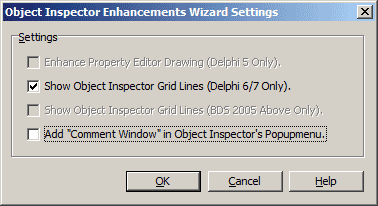
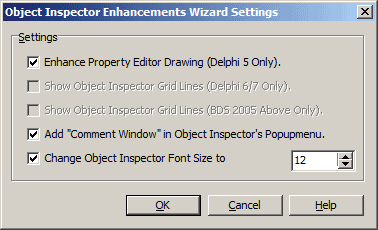
+ [Object Inspector Enhancement] Add Change Font Size Feature.

Changed region(s): [[0.0291, 0.233, 0.9894, 0.9612], [0.0, 0.0, 0.9894, 0.1165], [0.0291, 0.1456, 0.9894, 0.2039]]

diff --git a/Help/CnWizards_ENU/ideenhance/objinspector.htm b/Help/CnWizards_ENU/ideenhance/objinspector.htm
@@ -22,7 +22,6 @@
 <p class="text">Object Inspector Enhancements Wizard provides a series of extended functionalities for the Object Inspector. Its configuration interface is shown in the figure below:</p>
 <p class="text" align="center">
 <img src="objinspectorconf.png"></p>
-
 <ul>
   <li>
     <p class="text"><b>Enhance Property Editor Drawing</b>: The feature adds bold display for non-default property values in the Object Inspector, similar to that in Delphi 7, and currently supports Delphi 5 and C++Builder 5. As shown in the figure below, after enabling this expert, in the Object Inspector of Delphi 5, non-default property values are displayed in bold, while component class properties are shown in brown.</p>
@@ -69,8 +68,11 @@
   		</li>
 	  </ul>
   </li>
+  <p class="text">&nbsp;</p>
+  <li>
+    <p class="text"><b>Change Object Inspector Font Size</b>: If you think the font size of Object Inspector is too small, you can change its font size here.</p>
+  </li>
 </ul>
-
 <p class="text">&nbsp;</p>
 <p class="title" align="left">Links<p class="text" align="left">
 <p class="text" align="left"> <a href="formdesigner.htm">Form Designer Enhancements</a>

diff --git a/Help/CnWizards_CHT/other/credits.htm b/Help/CnWizards_CHT/other/credits.htm
@@ -1134,7 +1134,8 @@
   fb4819, For Me, 球球, 取精人, zhyhero, 大不了G, 長興, wuxi15, 紅蘿蔔炒蛋, 李刚, 雲朵,
   chencong5025, 清風, 若亦, 小寶軟件, 渣渣皮, 保靖黃金茶, 彼岸520, 保姆嘟, 柒宜貳┼阿平,
   獨攬恢宏, cylssl, keymark, 清風徐來, 從頭再來, 孤獨的根號3, 東坡, 互聯網大師, JOE,
-  相攜，閃電行動, 沒有理由, wyattwriy, 淡淡的風, 張☆抱，站在山頂, 地獄天使, 九木, 阿志</td>
+  相攜，閃電行動, 沒有理由, wyattwriy, 淡淡的風, 張☆抱，站在山頂, 地獄天使, 九木, 阿志,
+  靜待花開</td>
   </tr>
   <tr> 
     <td width="61" class="tabletext">波蘭</td>

diff --git a/Help/CnWizards_CHS/other/credits.htm b/Help/CnWizards_CHS/other/credits.htm
@@ -1134,7 +1134,8 @@
   fb4819, For Me, 球球, 取精人, zhyhero, 大不了G, 长兴, wuxi15, 红萝卜炒蛋, 李刚, 云朵,
   chencong5025, 清风, 若亦, 小宝软件, 渣渣皮, 保靖黄金茶, 彼岸520, 保姆嘟, 柒宜贰╉阿平,
   独揽恢宏, cylssl, keymark, 清风徐来, 从头再来, 孤独的根号3, 东坡, 互联网大师, JOE,
-  相携，闪电行动, 没有理由, wyattwriy, 淡淡的风, 张☆抱, 站在山顶, 地狱天使, 九木, 阿志</td>
+  相携，闪电行动, 没有理由, wyattwriy, 淡淡的风, 张☆抱, 站在山顶, 地狱天使, 九木, 阿志,
+  静待花开</td>
   </tr>
   <tr> 
     <td width="61" class="tabletext">波兰</td>

diff --git a/Help/CnWizards_ENU/other/credits.htm b/Help/CnWizards_ENU/other/credits.htm
@@ -1172,7 +1172,7 @@ Supporters</p>
   BaoJingHuangJinCha, BiAn520, BaoMuDu, QiYierAPing, DuLanHuiHong, cylssl, keymark,
   QingFengXuLai, CongTouZaiLai, GuDuDeGenHao3, DongPo, HuLianWangDaShi, JOE, XiangXie,
   ShanDianXingDong, MeiYouLiYou, wyattwriy, DanDanDeFeng, ZhangBao, ZhanZaiShanDing,
-  DiYuTianShi, JiuMu, AZhi</td>
+  DiYuTianShi, JiuMu, AZhi, JingDaiHuaKai</td>
   </tr>
   <tr> 
     <td width="82" class="tabletext">Poland</td>
